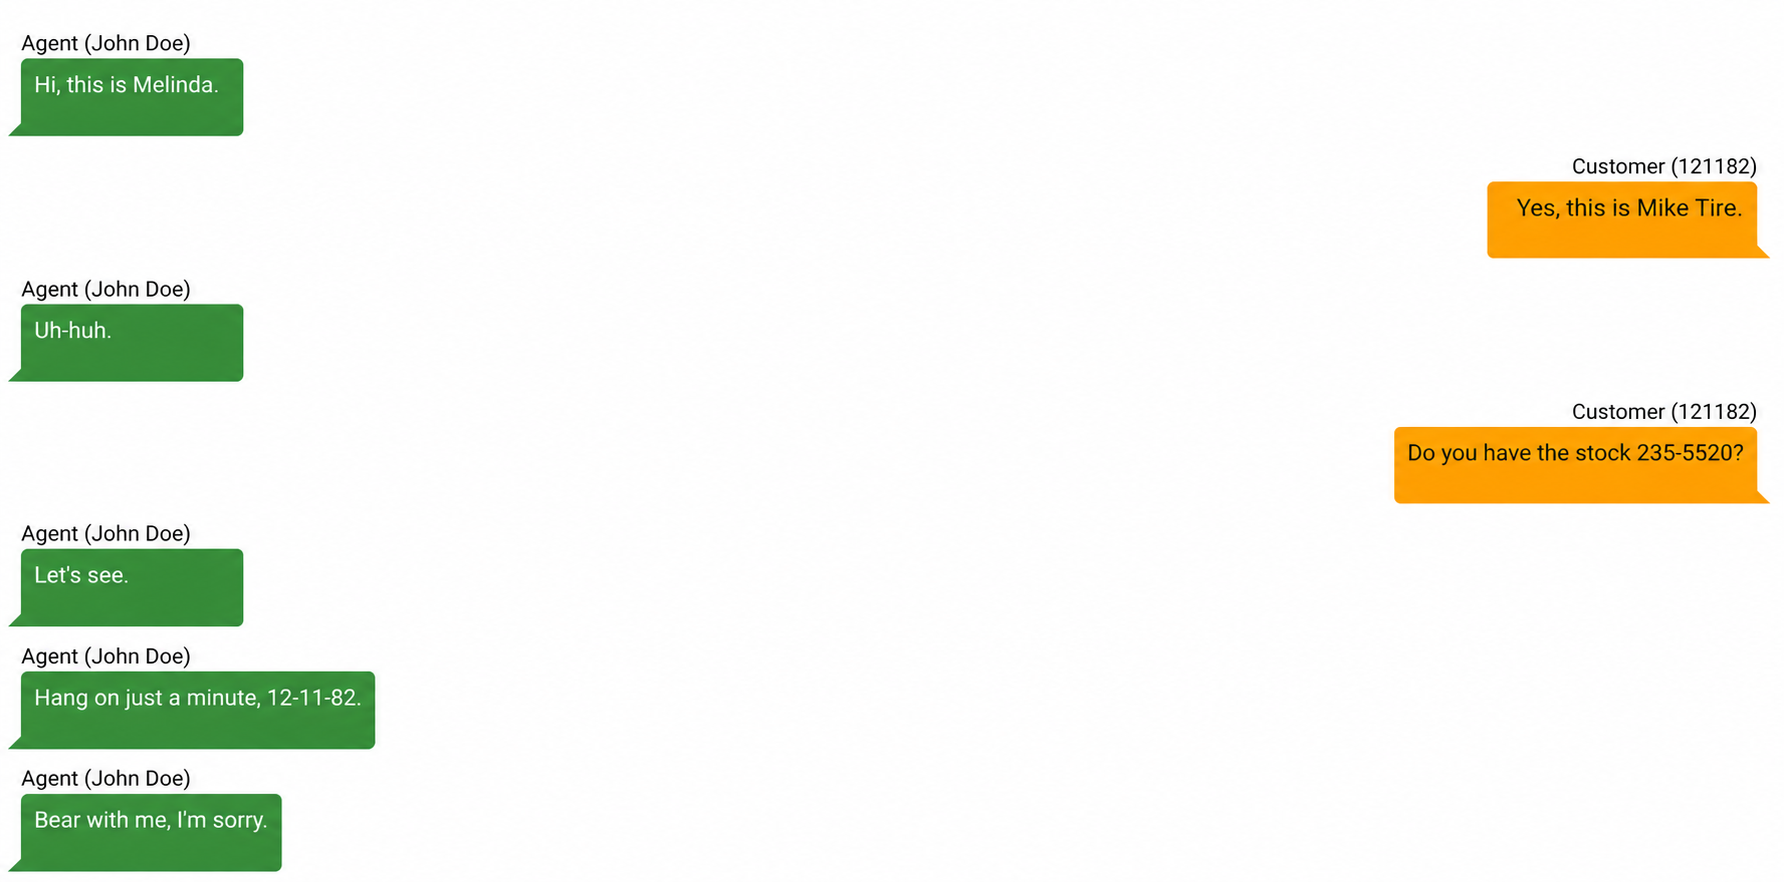
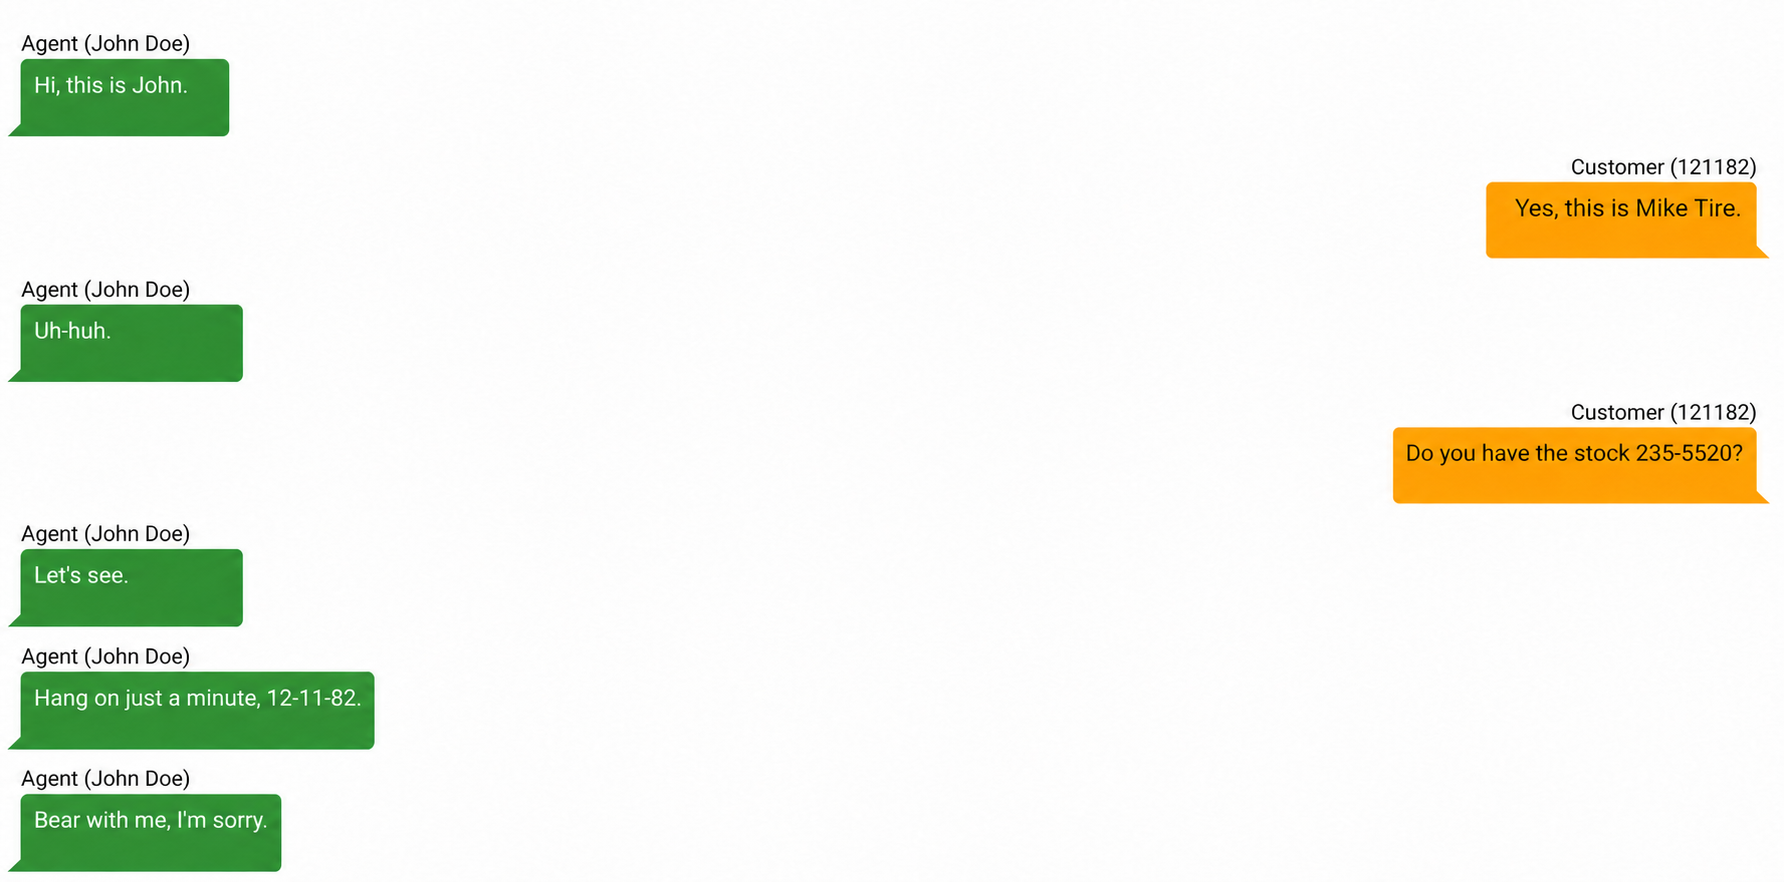
Add real CallScribe hero image
Flat vector CALL -> TEXT -> SCORE diagram, matches the other
project pages' hero style.

diff --git a/app/data/projects/callscribe.ts b/app/data/projects/callscribe.ts
@@ -23,7 +23,7 @@ export const whyPoints = [
 
 export const finaleLine = ['Drop in a call.', 'Get back who said what, and how it went.']
 
-export const heroImage = '/images/callscribe/hero.svg'
+export const heroImage = '/images/callscribe/hero.png'
 
 export const introLine = 'A recorded call goes in, a scored, readable transcript comes out. Each stage builds on the last.'
 
